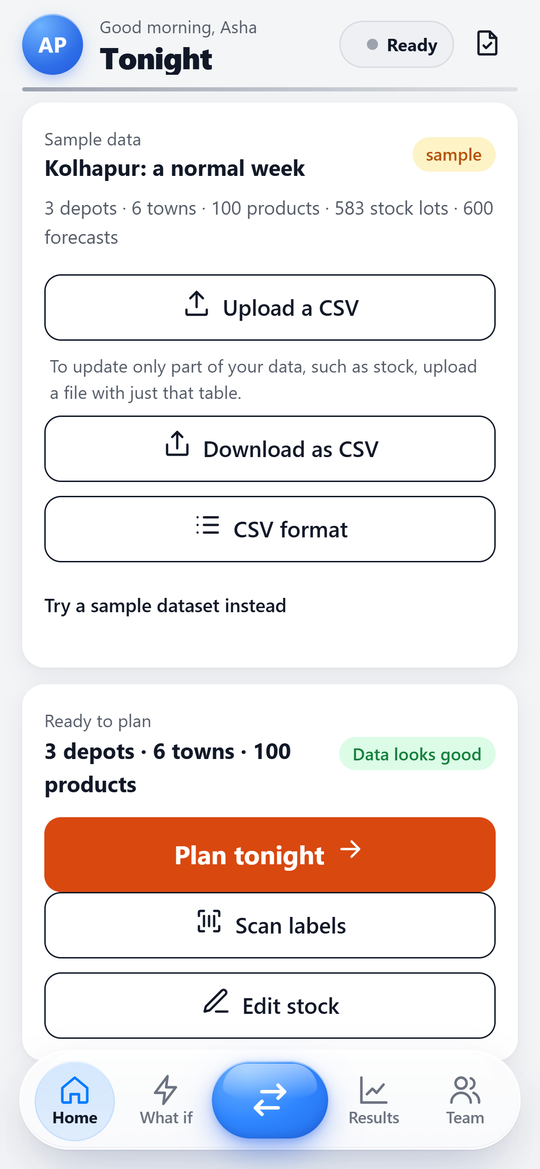
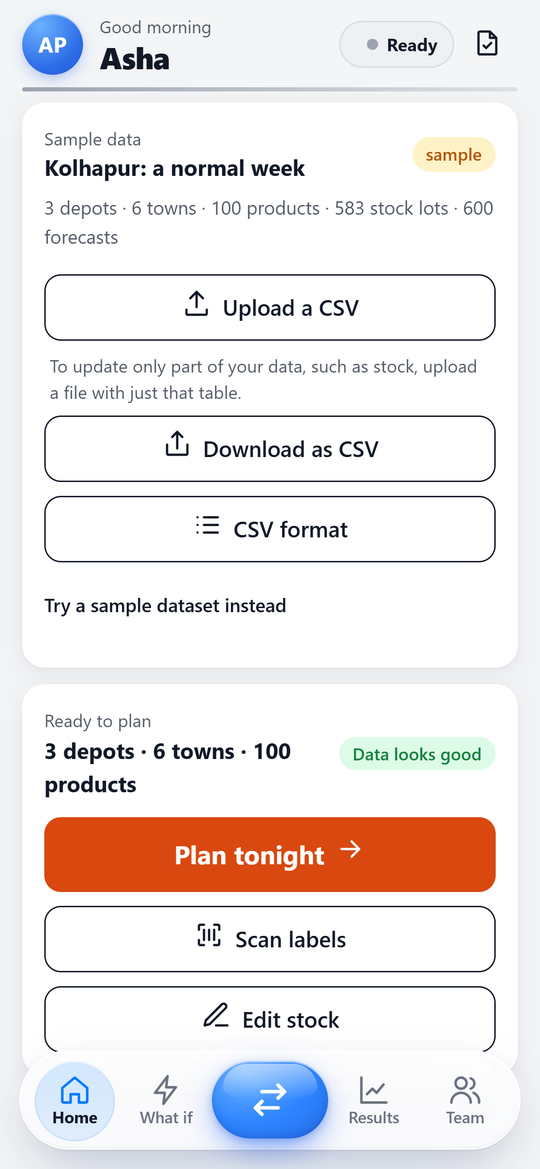
Header: no page title on Home (greeting over the first name, smaller for long names); space between a button and the button row below it; screenshots

Changed region(s): [[0.0889, 0.7699, 0.9185, 0.8931], [0.1778, 0.0308, 0.3852, 0.0616], [0.4148, 0.0, 0.4741, 0.0308]]

diff --git a/mob-apk/src/main.ts b/mob-apk/src/main.ts
@@ -20,7 +20,7 @@ import * as team from './views/team';
 type View = { title: string; tab: string; icon: string; render: (el: HTMLElement) => void; update?: () => void };
 // Admin: full control. Driver: only their trips, problem reports and account.
 const ADMIN: Record<string, View> = {
-  plan: { title: 'Tonight', tab: 'Home', icon: 'home', render: plan.render, update: plan.update },
+  plan: { title: '', tab: 'Home', icon: 'home', render: plan.render, update: plan.update },
   lab: { title: 'What if', tab: 'What if', icon: 'zap', render: lab.render, update: lab.update },
   results: { title: 'Results', tab: 'Results', icon: 'chart', render: results.render, update: results.update },
   team: { title: 'Team', tab: 'Team', icon: 'users', render: team.render, update: team.update },
@@ -78,9 +78,12 @@ const greeting = () => { const hr = new Date().getHours(); return hr < 5 ? 'Work
 
 function chrome() {
   if (!views[tab]) return;
-  title.textContent = views[tab].title;
   const me = state.me;
-  greet.textContent = me ? `${greeting()}, ${me.name.trim().split(/\s+/)[0]}` : '';
+  const first = me?.name.trim().split(/\s+/)[0] ?? '';
+  // Home has no page title: "Good evening" over the person's first name; other pages greet over their title
+  title.textContent = views[tab].title || first;
+  title.classList.toggle('long', title.textContent.length > 10); // long names (common in India) still fit
+  greet.textContent = views[tab].title ? (first ? `${greeting()}, ${first}` : '') : greeting();
   avatar.textContent = initials(me?.name);
   const [text, tone] = status();
   chipText.textContent = text;
@@ -210,7 +213,7 @@ async function startAdmin() {
   mount(right, chip, iconBtn('file', 'Plan files', 'records'));
   mount(tabs, tabBtn('plan'), tabBtn('lab'), go, tabBtn('results'), tabBtn('team'));
   tab = 'plan';
-  title.textContent = 'Tonight';
+  title.textContent = '';
   const bar = h('div', { class: 'bar', role: 'progressbar', 'aria-valuemin': '0', 'aria-valuemax': '100' }, h('div', { class: 'fill' }));
   const text = h('p', { class: 'muted', 'aria-live': 'polite' }, 'Getting the planner ready...');
   mount(main, h('section', { class: 'card loading' }, h('img', { class: 'boot-logo', src: `${import.meta.env.BASE_URL}logo.png`, alt: '' }), h('h2', {}, 'Getting ready'),

diff --git a/mob-apk/src/style.css b/mob-apk/src/style.css
@@ -315,7 +315,7 @@ dialog.sheet::backdrop { background: rgb(17 24 39 / 0.45); }
 .list-cards li { padding: 12px 0; border-bottom: 1px solid var(--line); }
 .list-cards li:last-child { border-bottom: 0; }
 .grid2 > * { min-width: 0; }
-.grid2 + .grid2, :is(input, textarea, select) + .grid2 { margin-top: 10px; }
+.grid2 + .grid2, :is(input, textarea, select, .btn) + .grid2 { margin-top: 10px; }
 .sheet-body > .card { margin-top: 16px; }
 summary > strong + span { margin-left: 6px; } /* summaries are flex rows, which drop the leading space of " · details" */
 .card > ul.rows { margin: 12px 0; } /* a list inside a card must not touch the totals above or the buttons below */
@@ -487,3 +487,5 @@ table.compare .badge { white-space: nowrap; }
   .status-chip { padding: 0; width: 34px; justify-content: center; }
   .status-chip > span:last-child { display: none; }
 }
+header.top h1.long { font-size: 1.1rem; }
+@media (max-width: 360px) { header.top h1.long { font-size: 1rem; } }

diff --git a/mob-apk/docs/decision.md b/mob-apk/docs/decision.md
@@ -611,9 +611,9 @@ A sample name saved on the phone by an older version still read "kolhapur_edge_c
 - `npm run geofence-test` now fails if the arrival limits, code tries or code digits differ between `config.ts` and `firestore.rules`, and checks that `today()` uses local time.
 - **Header:**
   - initials (to Account);
-  - a time-of-day greeting over a large left-aligned title (Home is now "Tonight");
+  - a time-of-day greeting over a large left-aligned page title. Home has no page title: "Good evening" sits over the person's first name, set smaller when the name is long;
   - a live status chip that opens the page it is about:
     - admin: No data, Checking, Fix data, Ready, Planning, Verified, Plan again;
     - driver: N stops left, Tracking, All done;
   - a rail along the bottom edge in the chip's colour, which shimmers while planning or tracking. At 360 px or narrower the chip shows only its dot.
-**Tests:** the arrival test has 7 new checks. A QA run at 320, 360, 390 and 430 px found no sideways scrolling, cut-off titles or overflowing header on any admin or driver page, and every chip transition was right. The end-to-end test and all other suites pass.
+**Tests:** the arrival test has 7 new checks. A QA run at 320, 360, 390 and 430 px found no sideways scrolling, cut-off titles or overflowing header on any admin or driver page, and every chip transition was right. A new check for buttons that touch found two pairs on Home ("Upload your data" / "Get a template", "Plan tonight" / "Scan labels"), now fixed. The end-to-end test and all other suites pass.
